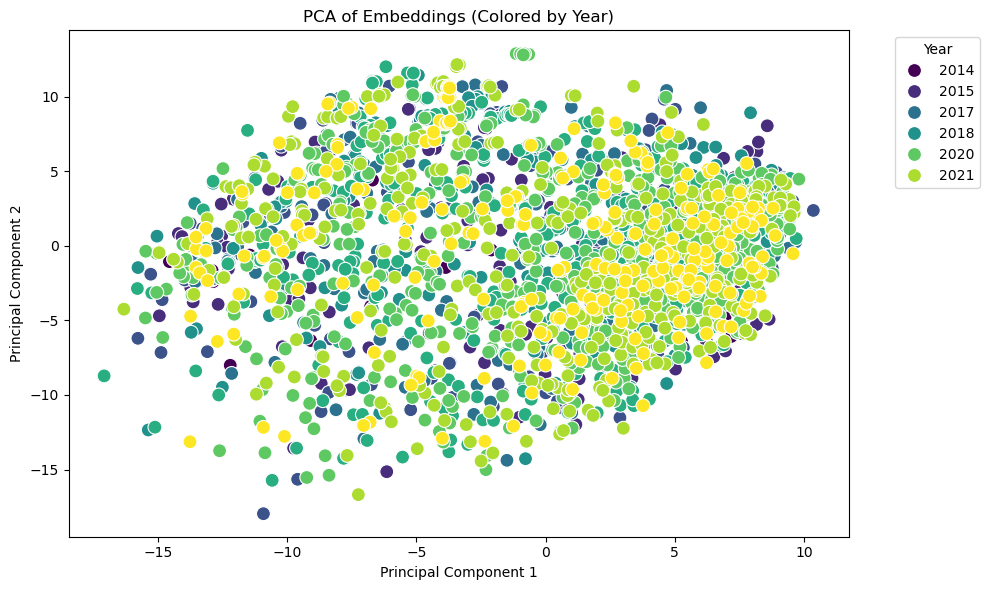
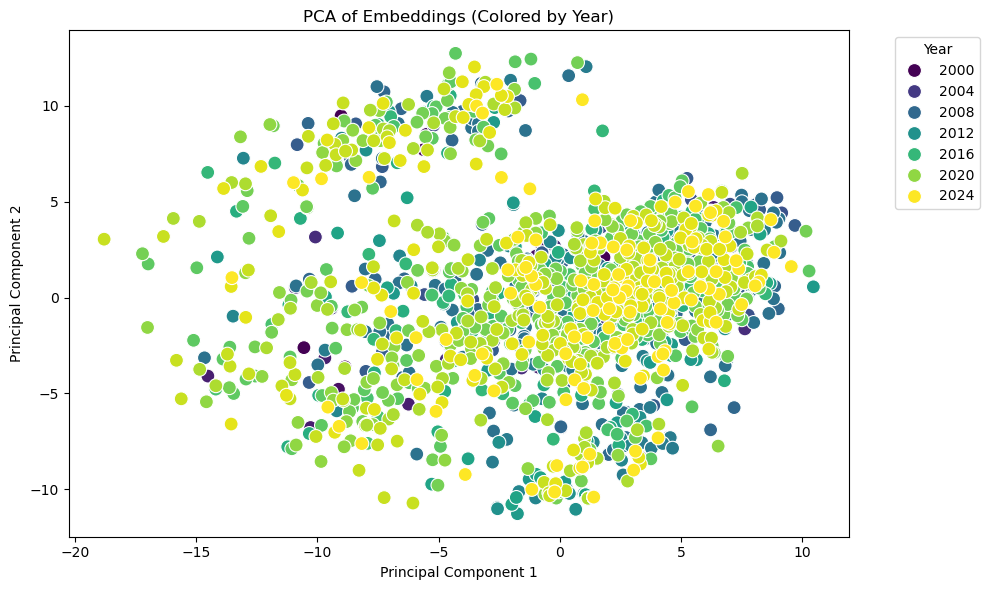
More plots and sentence seperation

diff --git a/notebooks/laurits_embedding_som_py.py b/notebooks/laurits_embedding_som_py.py
@@ -10,14 +10,39 @@ from sklearn.decomposition import PCA # For PCA
 import transformers # For BERT model
 from tqdm import tqdm # For progress bar  
 import matplotlib.pyplot as plt
-import seaborn as sns
-
+import spacy
 # %%
 # Load the CSV file
-df = pd.read_csv('../data/PBramsCleaned/clean_parlamint3.csv')
+# df = pd.read_csv('../data/PBramsCleaned/clean_parlamint3.csv')
+df = pd.read_csv('../data/TildesSuperData/klima_speeches.csv')
+df
+#%%
+nlp = spacy.load("da_core_news_sm")
 
+def split_sentences(text):
+    return [sent.text.strip() for sent in nlp(text).sents]
+rows = []
+
+for _, row in tqdm(df.iterrows(), total=len(df)):
+    sentences = split_sentences(row['speech'])
+    for sent in sentences:
+        rows.append({
+            'year': row['year'],
+            'meeting_number': row['meeting_number'],
+            'speaker': row['speaker'],
+            'sentence': sent
+        })
+
+df_expanded = pd.DataFrame(rows)
+# Save df_expanded to CSV
+df_expanded.to_csv('../data/TildesSuperData/expanded_speeches.csv', index=False)
+
+# %%
+df=df_expanded
+df
+#%%
 # Filter rows containing the word "klima" in the 'text' column
-filtered_df = df[df['text'].str.contains('klima', case=False, na=False)]
+filtered_df = df[df['sentence'].str.contains('klima', case=False, na=False)]
 
 # Display the filtered rows
 filtered_df.head()
@@ -27,7 +52,7 @@ tokenizer = AutoTokenizer.from_pretrained("Maltehb/danish-bert-botxo")
 model = AutoModel.from_pretrained("Maltehb/danish-bert-botxo")
 
 # Sample 200 rows and reset index
-sampled_df = filtered_df.sample(n=200, random_state=42).reset_index(drop=True)
+sampled_df = filtered_df.sample(n=2000, random_state=42).reset_index(drop=True)
 
 # Define target tokens
 target_tokens = ["klima", "klimaet"]
@@ -35,12 +60,16 @@ target_ids = tokenizer.convert_tokens_to_ids(target_tokens)
 
 # Store embeddings
 rows = []
+#%%
+sampled_df
+
+
 # %%
 # Embedding with BERT and progress bar
 for index, row in tqdm(sampled_df.iterrows(), total=len(sampled_df), desc="Embedding rows"):
-    sentence = row['text']
-    speaker_name = row['Speaker_name']
-    year_month = row['YearMonth']
+    sentence = row['sentence']
+    speaker_name = row['speaker']
+    year = row['year']
     
     # Tokenize with truncation
     inputs = tokenizer(sentence, return_tensors="pt", padding=True, truncation=True, max_length=512)
@@ -59,25 +88,20 @@ for index, row in tqdm(sampled_df.iterrows(), total=len(sampled_df), desc="Embed
             rows.append({
                 "Speaker_name": speaker_name,
                 "text": sentence,
-                "YearMonth": year_month,
+                "Year": year,
                 "token": token_str,
                 **{f"dim_{i}": val for i, val in enumerate(embedding)}
             })
 
 # Build final DataFrame
 df = pd.DataFrame(rows)
-# Get the index of 'YearMonth' column
-ym_index = df.columns.get_loc('YearMonth')
-# Split 'YearMonth' into 'Year' and 'Month'
-year_month_split = df['YearMonth'].str.split('-', expand=True)
-df.insert(ym_index + 1, 'Year', year_month_split[0].astype(int))
-df.insert(ym_index + 2, 'Month', year_month_split[1].astype(int))
 
-
+#%%
+df
 # %%
 # Perform PCA on the embeddings and polot first two components
 # Select embeddings
-embeddings = df.iloc[:, 6:]
+embeddings = df.iloc[:, 4:]
 
 # Perform PCA with 2 components
 pca = PCA(n_components=10)
@@ -88,7 +112,7 @@ explained_variance = pca.explained_variance_ratio_
 print(f"Explained variance by PC1 and PC2: {explained_variance[0]:.2%}, {explained_variance[1]:.2%}")
 
 # Create new DataFrame with original first 4 columns and PCA results
-pca_df = df.iloc[:, :6].copy()
+pca_df = df.iloc[:, :4].copy()
 pca_df['PC1'] = pca_result[:, 0]
 pca_df['PC2'] = pca_result[:, 1]
 
@@ -96,7 +120,7 @@ pca_df['PC2'] = pca_result[:, 1]
 pca_df
 
 # Sort by Month, then Year
-pca_df_sorted = pca_df.sort_values(by=['Year', 'Month']).reset_index(drop=True)
+pca_df_sorted = pca_df.sort_values(by=['Year']).reset_index(drop=True)
 
 # Show the result
 pca_df_sorted
@@ -119,3 +143,22 @@ plt.legend(title='Year', bbox_to_anchor=(1.05, 1), loc='upper left')
 plt.tight_layout()
 plt.savefig('pca_plot.png', bbox_inches='tight')
 plt.show()
+
+# %%
+# Group by Year and compute mean PC1 and PC2
+mean_pca_by_year = pca_df_sorted.groupby('Year')[['PC1', 'PC2']].mean().reset_index()
+
+# Plot
+plt.figure(figsize=(10, 6))
+sns.scatterplot(data=mean_pca_by_year, x='PC1', y='PC2', hue='Year', palette='viridis', s=150)
+
+# Annotate with year labels
+for _, row in mean_pca_by_year.iterrows():
+    plt.text(row['PC1'] + 0.01, row['PC2'], str(row['Year']), fontsize=10)
+plt.ylabel('Mean Principal Component 2')
+plt.title('Mean PCA Embedding per Year')
+plt.legend(title='Year', bbox_to_anchor=(1.05, 1), loc='upper left')
+plt.tight_layout()
+plt.show()
+
+# %%
